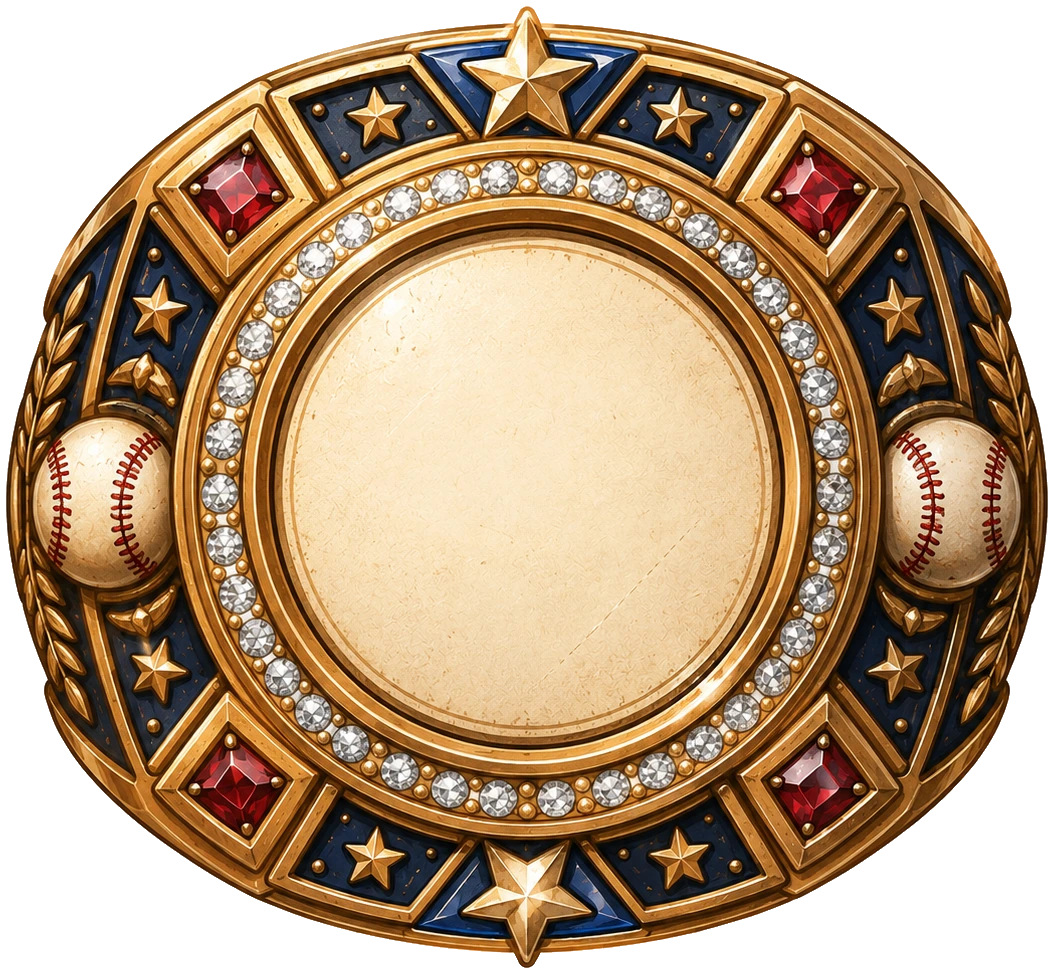
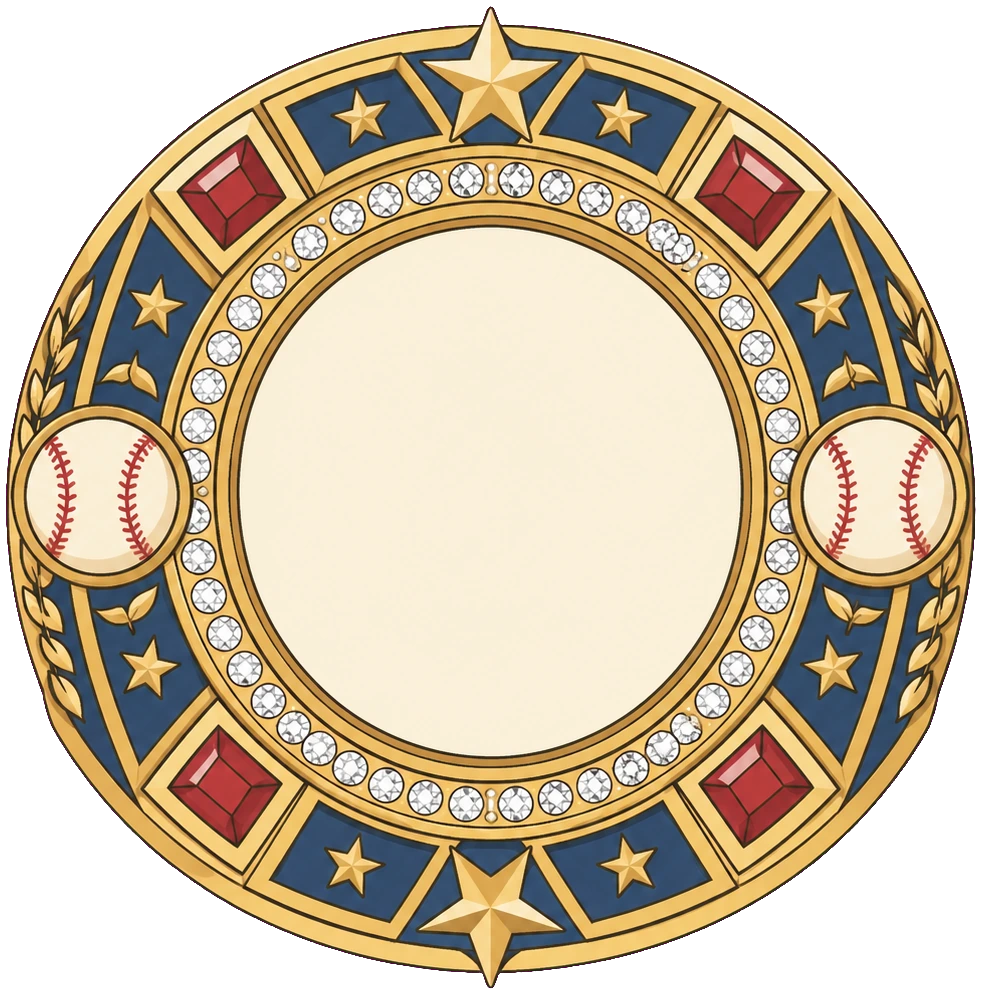
feat(skin): 에셋 스킨 8종 2D 이미지로 교체 (id 유지·시각만 교체)
더그아웃·라인업·작전보드·구장게이트·스피드건·메달·트로피·링을
플랫 2D 아트로 교체. 스킨 id/가격/정렬 그대로라 기존 구매자 보존.

- 핑크(마젠타) 배경 7종 chroma-key, 메달 흰배경 flood-fill 제거.
- 새 이미지 비율·숫자 위치·색 재측정해 IMAGE_FRAME_ASSETS 갱신.
- 메달은 월계관 링 홀 투명 → 뒤 크림 카드에 숫자 얹힘(기존 방식 유지).
- 파일명 동일 덮어쓰기라 썸네일·히어로·상세 전 화면 자동 반영.

diff --git a/app/utils/assetFrameConfig.ts b/app/utils/assetFrameConfig.ts
@@ -57,9 +57,9 @@ export const IMAGE_FRAME_ASSETS: Record<string, ImageFrameConfig> = {
   },
   medalSpecial: {
     source: require('../assets/medal-frame.webp'),
-    aspect: 1168 / 1213,       // ≈0.963 (크롭 후 실측, 리본 포함 세로가 조금 김)
-    numberCenterX: 0.5,
-    numberCenterY: 0.546,      // 링 중심 — 상단 리본이 솟아 중앙보다 약간 아래
+    aspect: 1153 / 1234,       // ≈0.934 (2D 교체본, 월계관 링·세로형)
+    numberCenterX: 0.50,
+    numberCenterY: 0.53,       // 투명 링 홀 중심 — 상단 꿀잼지수 배너 아래
     numberColor: '#26365F',    // 투명 링 뒤=크림 카드 → 네이비(메달 네이비 밴드와 조화)
     fontRatio: 0.30,           // 링 원 안에 여유있게
     threeDigitScale: 0.72,
@@ -71,12 +71,12 @@ export const IMAGE_FRAME_ASSETS: Record<string, ImageFrameConfig> = {
     widths: { compact: 64, hero: 128, detail: 156, preview: 168 },
   },
 
-  // ── 야구장 5종 (배경 flood-fill 제거 후 crop 실측 aspect) ──
+  // ── 야구장 5종 (2D 교체본, 핑크 크로마키 제거 후 crop 실측 aspect) ──
   nameplateDugout: {
     source: require('../assets/nameplate-frame.webp'),
-    aspect: 1230 / 666,        // ≈1.847 (가로형 명패)
-    numberCenterX: 0.51,       // 살짝 우측
-    numberCenterY: 0.56,       // 상단 공·별 장식 아래 크림 명패 중심(살짝 아래)
+    aspect: 1192 / 612,        // ≈1.948 (가로형 명패)
+    numberCenterX: 0.50,
+    numberCenterY: 0.55,       // 상단 공·별 장식 아래 크림 명패 중심
     numberColor: '#2F4A32',    // 크림 명패 → 더그아웃 그린 잉크
     fontRatio: 0.34,
     threeDigitScale: 0.72,
@@ -89,9 +89,9 @@ export const IMAGE_FRAME_ASSETS: Record<string, ImageFrameConfig> = {
   },
   lineupCard: {
     source: require('../assets/lineup-frame.webp'),
-    aspect: 1131 / 916,        // ≈1.235
-    numberCenterX: 0.50,       // 살짝 우측
-    numberCenterY: 0.54,       // 상단 클립 아래 카드 중심(살짝 아래)
+    aspect: 1054 / 935,        // ≈1.127
+    numberCenterX: 0.50,
+    numberCenterY: 0.52,       // 상단 클립 아래 카드 중심
     numberColor: '#2C3E6B',    // 크림 카드 → 네이비 펜 잉크
     fontRatio: 0.36,
     threeDigitScale: 0.72,
@@ -104,9 +104,9 @@ export const IMAGE_FRAME_ASSETS: Record<string, ImageFrameConfig> = {
   },
   tacticBoard: {
     source: require('../assets/tacticboard-frame.webp'),
-    aspect: 1200 / 968,        // ≈1.240
-    numberCenterX: 0.52,       // 살짝 우측
-    numberCenterY: 0.47,       // 상단 크림 보드 중심(하단 작전 다이어그램 제외)
+    aspect: 1108 / 905,        // ≈1.224
+    numberCenterX: 0.51,
+    numberCenterY: 0.46,       // 상단 크림 보드 중심(하단 작전 다이어그램 제외)
     numberColor: '#26402C',    // 크림 보드 → 딥 그린 분필
     fontRatio: 0.32,
     threeDigitScale: 0.72,
@@ -119,11 +119,11 @@ export const IMAGE_FRAME_ASSETS: Record<string, ImageFrameConfig> = {
   },
   ballparkGate: {
     source: require('../assets/gate-frame.webp'),
-    aspect: 1241 / 839,        // ≈1.479
+    aspect: 1118 / 863,        // ≈1.296
     numberCenterX: 0.50,
-    numberCenterY: 0.51,       // 상단 깃발·아치 아래 크림 사인 중심(살짝 아래·재조정)
+    numberCenterY: 0.48,       // 상단 깃발·아치 아래 크림 사인 중심
     numberColor: '#2C3E6B',    // 크림 사인 → 네이비 잉크
-    fontRatio: 0.28,
+    fontRatio: 0.30,
     threeDigitScale: 0.72,
     centerOffset: 0.52,
     fontFamily: 'Galmuri11Bold',
@@ -134,9 +134,9 @@ export const IMAGE_FRAME_ASSETS: Record<string, ImageFrameConfig> = {
   },
   speedgunBoard: {
     source: require('../assets/speedgun-frame.webp'),
-    aspect: 1114 / 889,        // ≈1.253
+    aspect: 1074 / 833,        // ≈1.289
     numberCenterX: 0.50,
-    numberCenterY: 0.51,       // 검은 도트매트릭스 디스플레이 중심(살짝 위, 하단 MPH 라벨 위)
+    numberCenterY: 0.52,       // 검은 도트매트릭스 디스플레이 중심(하단 MPH 라벨 위)
     numberColor: '#8DF06A',    // 어두운 디스플레이 → 밝은 LED 그린(유일한 밝은 숫자)
     fontRatio: 0.34,
     threeDigitScale: 0.72,
@@ -151,9 +151,9 @@ export const IMAGE_FRAME_ASSETS: Record<string, ImageFrameConfig> = {
   // ── 스페셜 2종 ──
   mvpTrophy: {
     source: require('../assets/trophy-frame.webp'),
-    aspect: 1097 / 1090,       // ≈1.006 (거의 정사각)
-    numberCenterX: 0.52,       // 살짝 우측
-    numberCenterY: 0.46,       // 상단 원형 명판 중심(살짝 아래, 하단 트로피·배트 위)
+    aspect: 969 / 1031,        // ≈0.940 (2D 교체본, 세로형)
+    numberCenterX: 0.50,
+    numberCenterY: 0.47,       // 상단 타원 명판 중심(하단 트로피·배트·명패 위)
     numberColor: '#26365F',    // 크림 명판 → 네이비 잉크
     fontRatio: 0.30,
     threeDigitScale: 0.72,
@@ -166,9 +166,9 @@ export const IMAGE_FRAME_ASSETS: Record<string, ImageFrameConfig> = {
   },
   champRing: {
     source: require('../assets/ring-frame.webp'),
-    aspect: 1054 / 974,        // ≈1.082
-    numberCenterX: 0.51,       // 살짝 우측
-    numberCenterY: 0.50,       // 다이아 링 중앙 크림 명판(살짝 아래·재조정)
+    aspect: 982 / 995,         // ≈0.987 (2D 교체본)
+    numberCenterX: 0.50,
+    numberCenterY: 0.49,       // 다이아 링 중앙 크림 명판
     numberColor: '#26365F',    // 크림 명판 → 네이비 잉크
     fontRatio: 0.26,
     threeDigitScale: 0.72,
